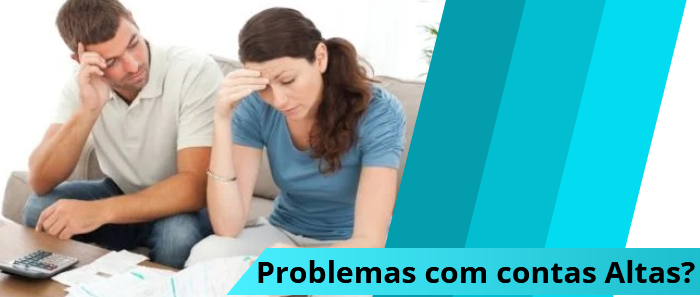
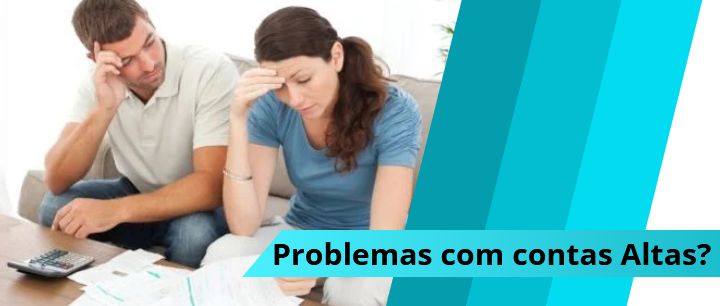
ajustes na imagem do carrosel

diff --git a/assets/css/responsive.css b/assets/css/responsive.css
@@ -21,11 +21,74 @@
   }
 }
 
-@media (max-width: 991px) {}
+@media (max-width: 991px) {
+  .carousel-item img {
+    height: 300px;
+    /* Reduz a altura das imagens */
+  }
 
-@media (max-width: 768px) {}
+  .carousel-control-prev,
+  .carousel-control-next {
+    padding: 5px;
+    /* Diminui o padding dos controles */
+  }
 
-@media (max-width: 600px) {}
+  .carousel-control-prev {
+    left: 5px;
+    /* Ajusta a posição dos controles */
+  }
+
+  .carousel-control-next {
+    right: 5px;
+    /* Ajusta a posição dos controles */
+  }
+}
+
+@media (max-width: 768px) {
+  .carousel-item img {
+    height: 300px;
+    /* Reduz a altura das imagens */
+  }
+
+  .carousel-control-prev,
+  .carousel-control-next {
+    padding: 5px;
+    /* Diminui o padding dos controles */
+  }
+
+  .carousel-control-prev {
+    left: 5px;
+    /* Ajusta a posição dos controles */
+  }
+
+  .carousel-control-next {
+    right: 5px;
+    /* Ajusta a posição dos controles */
+  }
+}
+
+@media (max-width: 600px) {
+  .carousel-item img {
+    height: 200px;
+    /* Reduz a altura das imagens */
+  }
+
+  .carousel-control-prev,
+  .carousel-control-next {
+    padding: 5px;
+    /* Diminui o padding dos controles */
+  }
+
+  .carousel-control-prev {
+    left: 5px;
+    /* Ajusta a posição dos controles */
+  }
+
+  .carousel-control-next {
+    right: 5px;
+    /* Ajusta a posição dos controles */
+  }
+}
 
 @media (max-width: 480px) {
   header {
@@ -279,6 +342,4 @@
       /* Reduz o tamanho da fonte dos links */
     }
   }
-
-
 }

diff --git a/index.html b/index.html
@@ -45,7 +45,7 @@
     <div class="carousel-container">
         <div class="carousel-inner">
             <div class="carousel-item active">
-                <img src="./assets/img/carousel_First.png" alt="">
+                <img src="./assets/img/image.png" alt="">
             </div>
 
             <div class="carousel-item">
